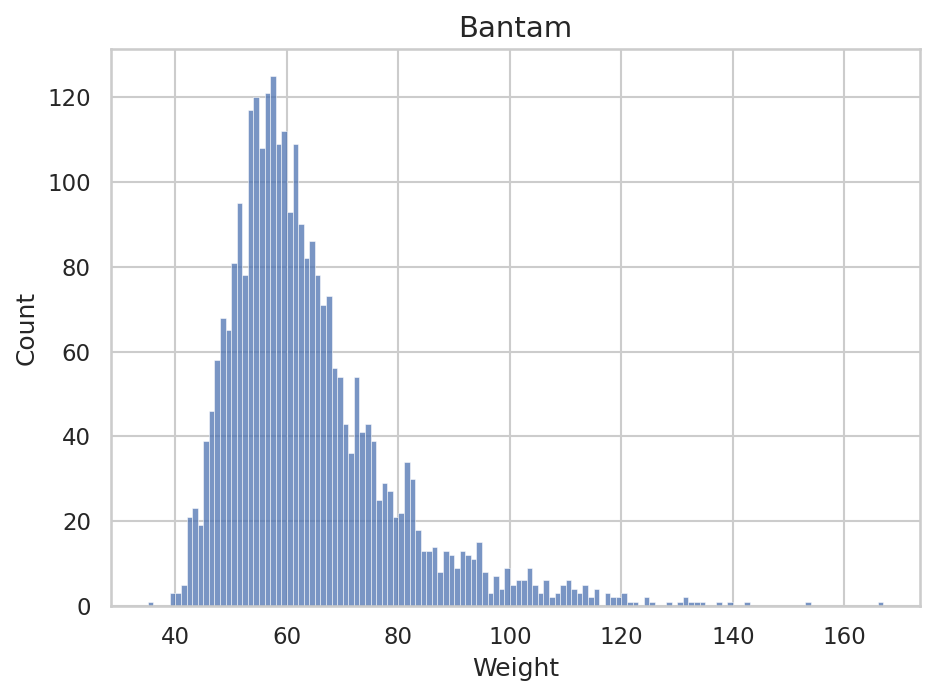
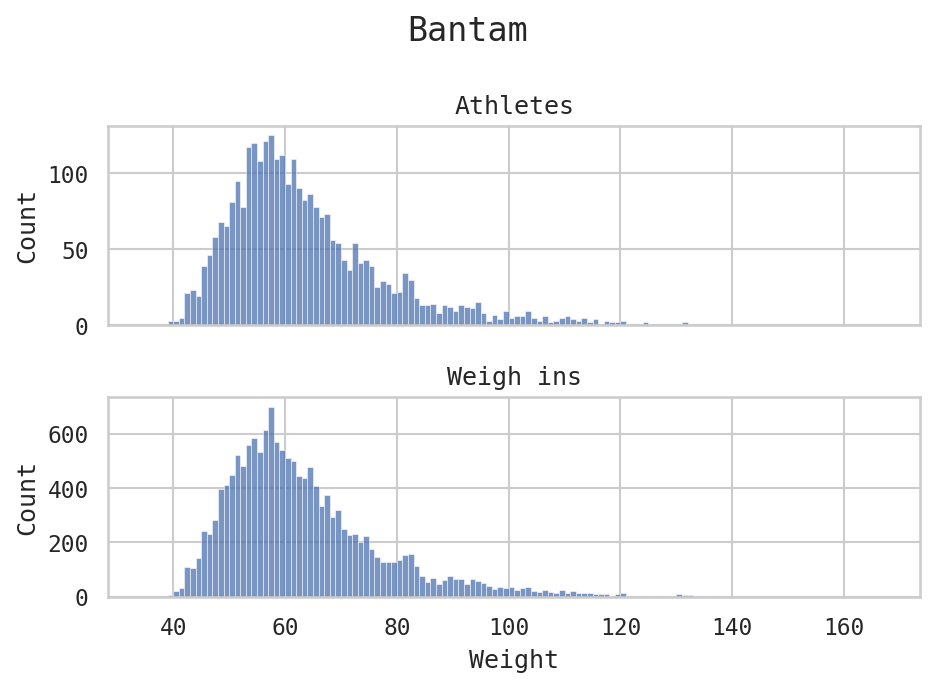
Update the plots

diff --git a/extract_weigh_ins.py b/extract_weigh_ins.py
@@ -1,4 +1,5 @@
 import csv
+import itertools
 import math
 import pathlib
 from typing import Literal
@@ -292,24 +293,34 @@ def _explain_weight_classes(
     return classes
 
 
-def _plot_histogram(
-    filename: pathlib.Path, division_display: str, weigh_ins: list[float]
+def _plot_histograms(
+    filename: pathlib.Path,
+    division_display: str,
+    athlete_weights: list[float],
+    weigh_ins: list[float],
 ) -> None:
-    if not weigh_ins:
+    if not athlete_weights or not weigh_ins:
         raise NotImplementedError
 
     # Determine bin range
-    min_val = math.floor(min(weigh_ins))
-    max_val = math.ceil(max(weigh_ins))
+    min_val = math.floor(min(athlete_weights + weigh_ins))
+    max_val = math.ceil(max(athlete_weights + weigh_ins))
+    bins = list(range(min_val, max_val + 1))
 
-    plt.figure()
-    sns.histplot(weigh_ins, binwidth=1, binrange=(min_val, max_val))
+    fig, axes = plt.subplots(2, 1, sharex=True)
 
-    plt.xlabel("Weight")
-    plt.ylabel("Count")
-    plt.title(division_display)
+    sns.histplot(athlete_weights, bins=bins, ax=axes[0])
+    axes[0].set_title("Athletes")
+    sns.histplot(weigh_ins, bins=bins, ax=axes[1])
+    axes[1].set_title("Weigh ins")
 
-    plt.tight_layout()
+    axes[1].set_xlabel("Weight")
+    axes[0].set_ylabel("Count")
+    axes[1].set_ylabel("Count")
+
+    fig.suptitle(division_display, fontsize=16, y=0.95)
+    plt.tight_layout(rect=[0, 0, 1, 0.96])
+
     plt.savefig(filename, dpi=150, bbox_inches="tight")
     plt.close()
 
@@ -318,10 +329,8 @@ def main() -> None:
     sns.set_theme(style="whitegrid")
     plt.rcParams.update(
         {
-            "font.family": "sans-serif",
-            "font.sans-serif": ["DejaVu Sans", "Arial", "Helvetica"],
-            "axes.titlesize": 14,
-            "axes.labelsize": 12,
+            "font.family": "monospace",
+            "font.monospace": ["DejaVu Sans Mono"],
         }
     )
 
@@ -401,6 +410,12 @@ def main() -> None:
         "- An athlete is considered too light if "
         f"{too_light_percent:.1f}% below the lowest weight"
     )
+    lines.append(
+        "- The plots contain both the distribution of **ATHLETES** by "
+        "weight and the distribution of **WEIGH INS**; i.e. one athlete "
+        "might have 12 weigh ins on the year because they competed at "
+        "12 events"
+    )
     lines.extend(["", "## Computed weight classes", ""])
 
     one_weight = _median_from_aggregate(by_division)
@@ -465,10 +480,13 @@ def main() -> None:
     with open(_HERE / "WEIGHT-CLASSES.md", "w") as file_obj:
         file_obj.write("\n".join(lines))
 
-    for division, weigh_ins in one_weight.items():
+    for division, athlete_weights in one_weight.items():
+        weigh_in_map = by_division[division]
+        division_weigh_ins = list(itertools.chain.from_iterable(weigh_in_map.values()))
+
         division_str = projection.display_division(division)
         filename = _HERE / "_images" / f"weights_histogram_{division}.png"
-        _plot_histogram(filename, division_str, weigh_ins)
+        _plot_histograms(filename, division_str, athlete_weights, division_weigh_ins)
 
 
 if __name__ == "__main__":

diff --git a/WEIGHT-CLASSES.md b/WEIGHT-CLASSES.md
@@ -2,6 +2,9 @@
 
 - We have 74,258 weigh ins
 - An athlete is considered too light if 15.0% below the lowest weight
+- The plots contain both the distribution of **ATHLETES** by weight and the
+  distribution of **WEIGH INS**; i.e. one athlete might have 12 weigh ins on the
+  year because they competed at 12 events
 
 ## Computed weight classes
 
